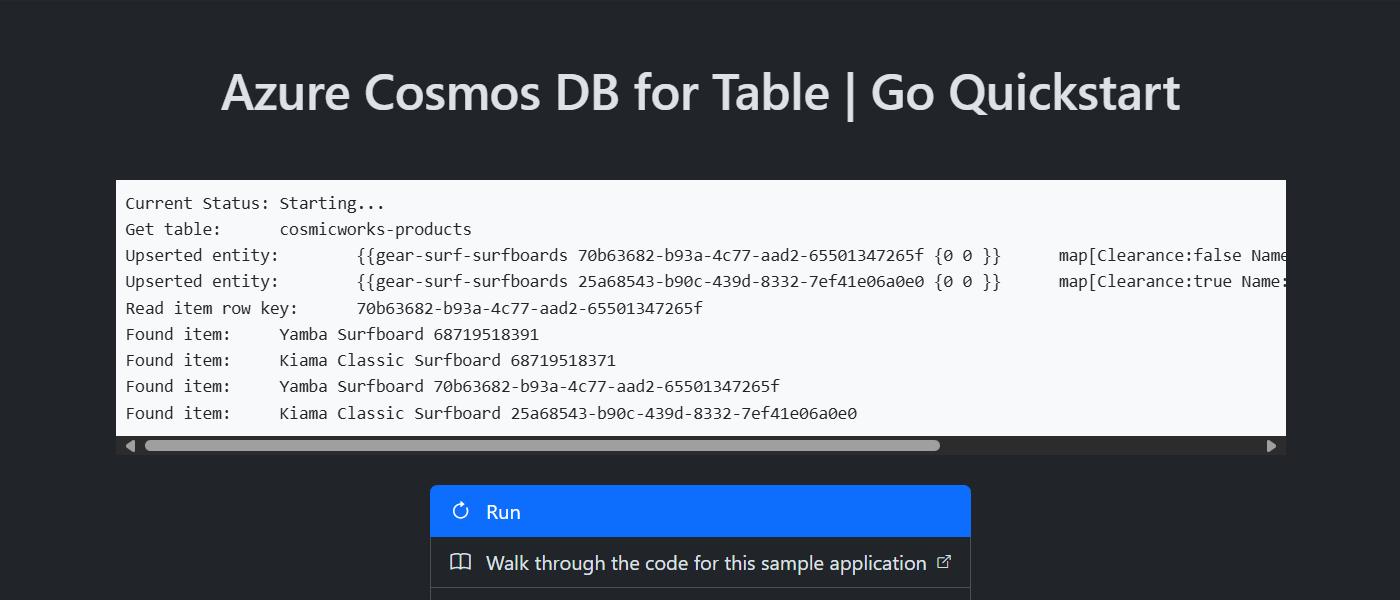
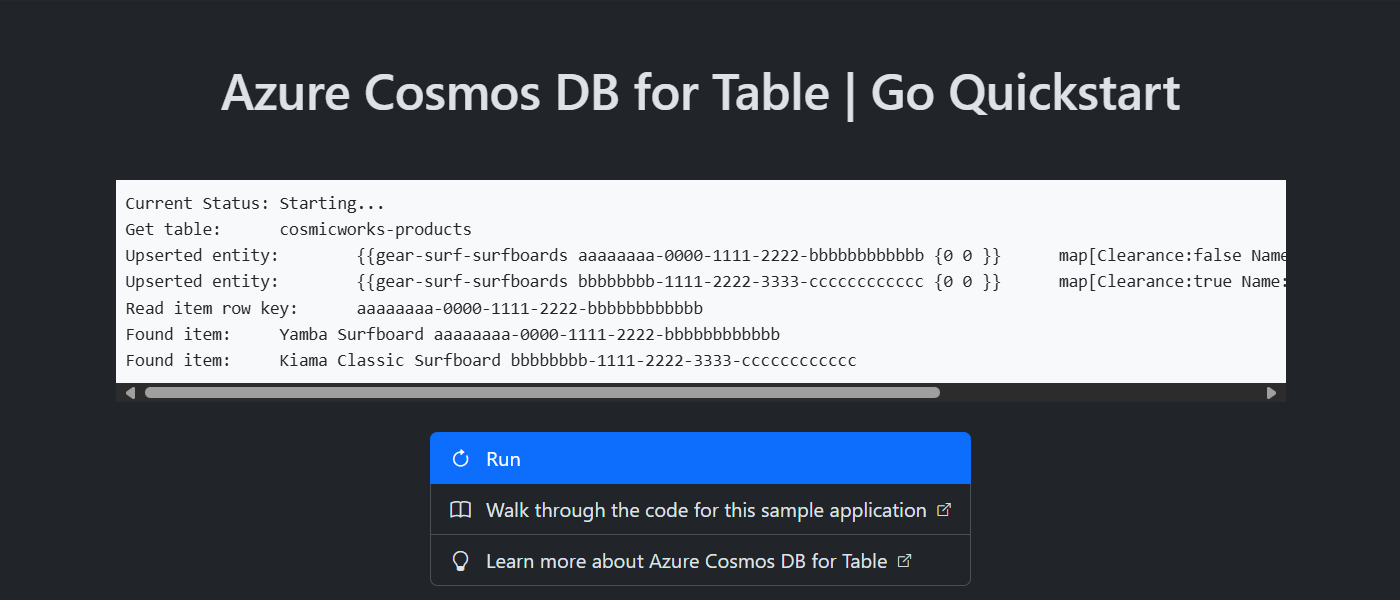
Update GUIDs

Changed region(s): [[0.0614, 0.42, 0.9214, 0.99]]

diff --git a/src/static/index.html b/src/static/index.html
@@ -22,7 +22,7 @@
                     <i class="bi bi-arrow-clockwise me-2"></i>
                     Run
                 </button>
-                <a href="https://learn.microsoft.com/azure/cosmos-db/table/quickstart-java#walk-through-the-java-library-code"
+                <a href="https://learn.microsoft.com/azure/cosmos-db/table/quickstart-go#code-examples"
                     class="list-group-item list-group-item-action" target="_blank">
                     <i class="bi bi-book me-2"></i>
                     Walk through the code for this sample application

diff --git a/src/cosmos.go b/src/cosmos.go
@@ -55,7 +55,7 @@ func startCosmos(writeOutput func(msg string)) error {
 	{
 		entity := aztables.EDMEntity{
 			Entity: aztables.Entity{
-				RowKey:       "70b63682-b93a-4c77-aad2-65501347265f",
+				RowKey:       "aaaaaaaa-0000-1111-2222-bbbbbbbbbbbb",
 				PartitionKey: "gear-surf-surfboards",
 			},
 			Properties: map[string]any{
@@ -84,7 +84,7 @@ func startCosmos(writeOutput func(msg string)) error {
 	{
 		entity := aztables.EDMEntity{
 			Entity: aztables.Entity{
-				RowKey:       "25a68543-b90c-439d-8332-7ef41e06a0e0",
+				RowKey:       "bbbbbbbb-1111-2222-3333-cccccccccccc",
 				PartitionKey: "gear-surf-surfboards",
 			},
 			Properties: map[string]any{
@@ -113,7 +113,7 @@ func startCosmos(writeOutput func(msg string)) error {
 	{
 		context := context.TODO()
 
-		rowKey := "70b63682-b93a-4c77-aad2-65501347265f"
+		rowKey := "aaaaaaaa-0000-1111-2222-bbbbbbbbbbbb"
 		partitionKey := "gear-surf-surfboards"
 
 		response, err := table.GetEntity(context, partitionKey, rowKey, nil)

diff --git a/readme.md b/readme.md
@@ -1,3 +1,4 @@
+<!--
 ---
 page_type: sample
 name: "Quickstart: Azure Cosmos DB for Table and Azure SDK for Go"
@@ -9,18 +10,19 @@ languages:
 products:
 - azure-cosmos-db
 ---
+-->
 
 # Quickstart: Azure Cosmos DB for Table - Azure SDK for Go
 
 This is a simple web application to illustrate common basic usage of Azure Cosmos DB for Table with the Azure SDK for Go.
 
-### Prerequisites
+## Prerequisites
 
 - [Docker](https://www.docker.com/)
 - [Azure Developer CLI](https://aka.ms/azd-install)
 - [Go 1.23 or newer](https://go.dev/dl/)
 
-### Quickstart
+## Quickstart
 
 1. Log in to Azure Developer CLI.
 
